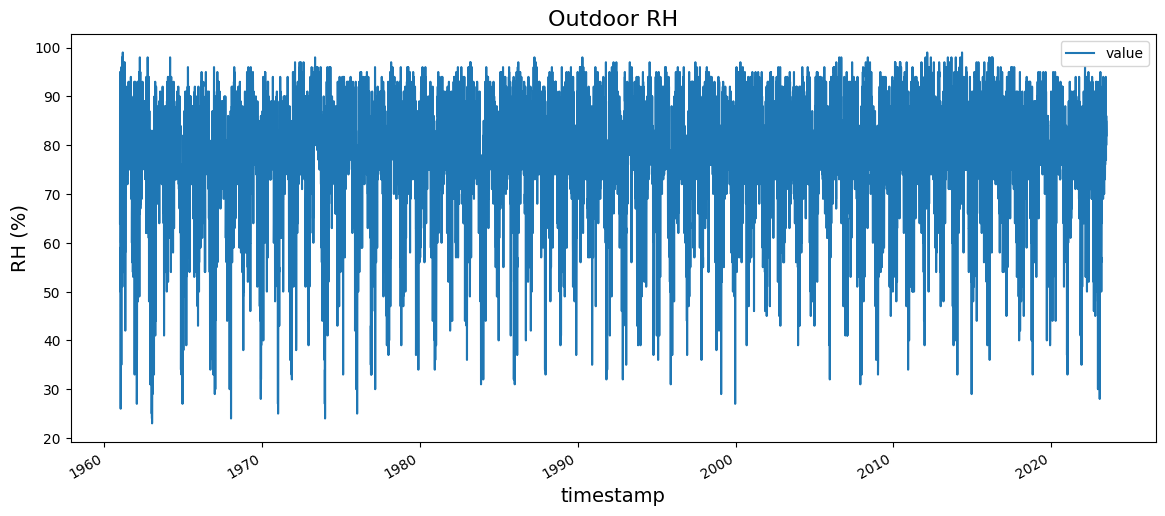
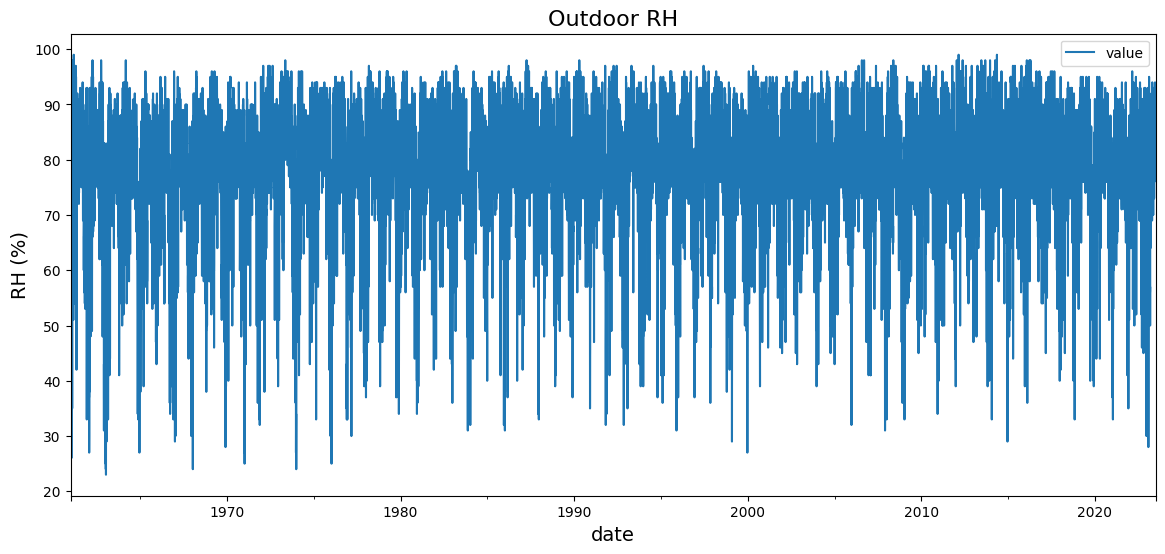
Update eda script and result

Changed region(s): [[0.0, 0.0, 1.0, 0.9922]]

diff --git a/scripts/explore_data.py b/scripts/explore_data.py
@@ -24,8 +24,8 @@ for file_path, setting in file_path_to_setting.items():
     with open(file_path, "r") as f:
         df = pd.read_csv(f)
 
-    df = df.set_index("timestamp")
-    df.index = pd.to_datetime(df.index)
+    df = df.set_index("date")
+    df.index = pd.DatetimeIndex(df.index)
 
     n_pct_missing = df.isna().sum().sum() / df.size * 100
     print(f"Percentage of missing data for {file_path} = {n_pct_missing:.5f}%")
